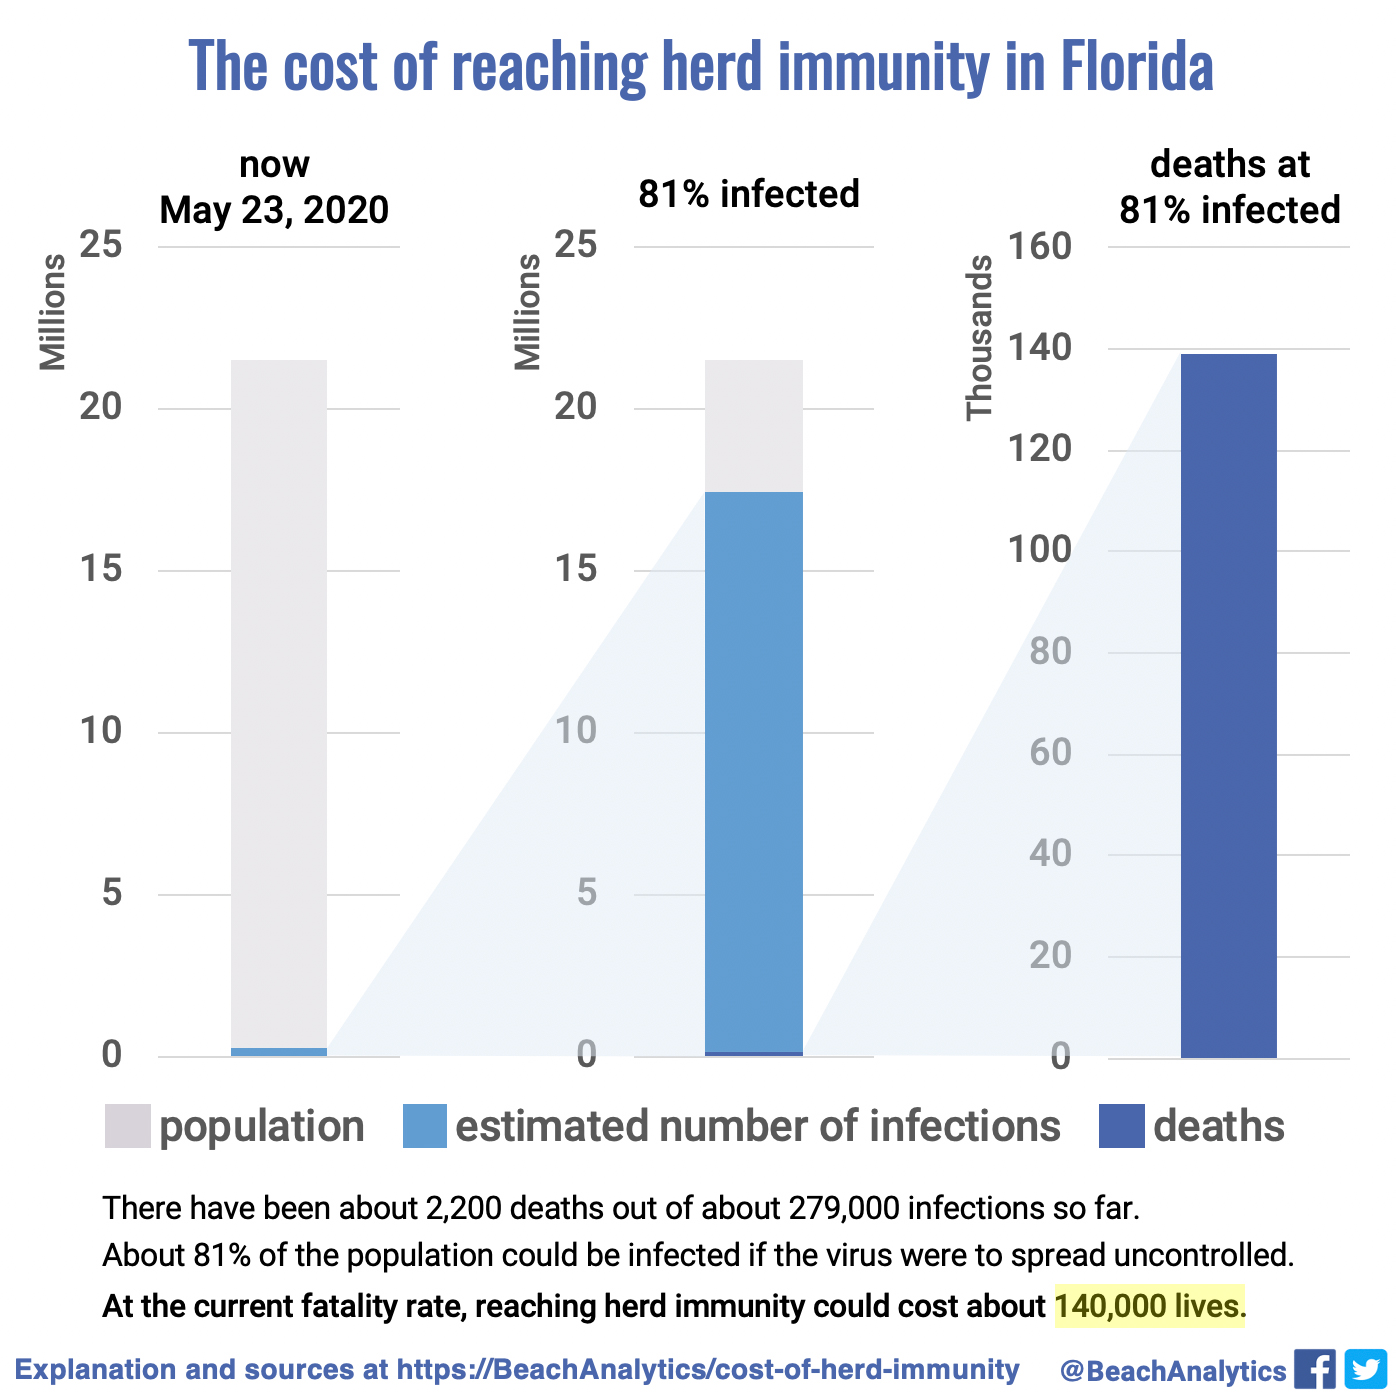
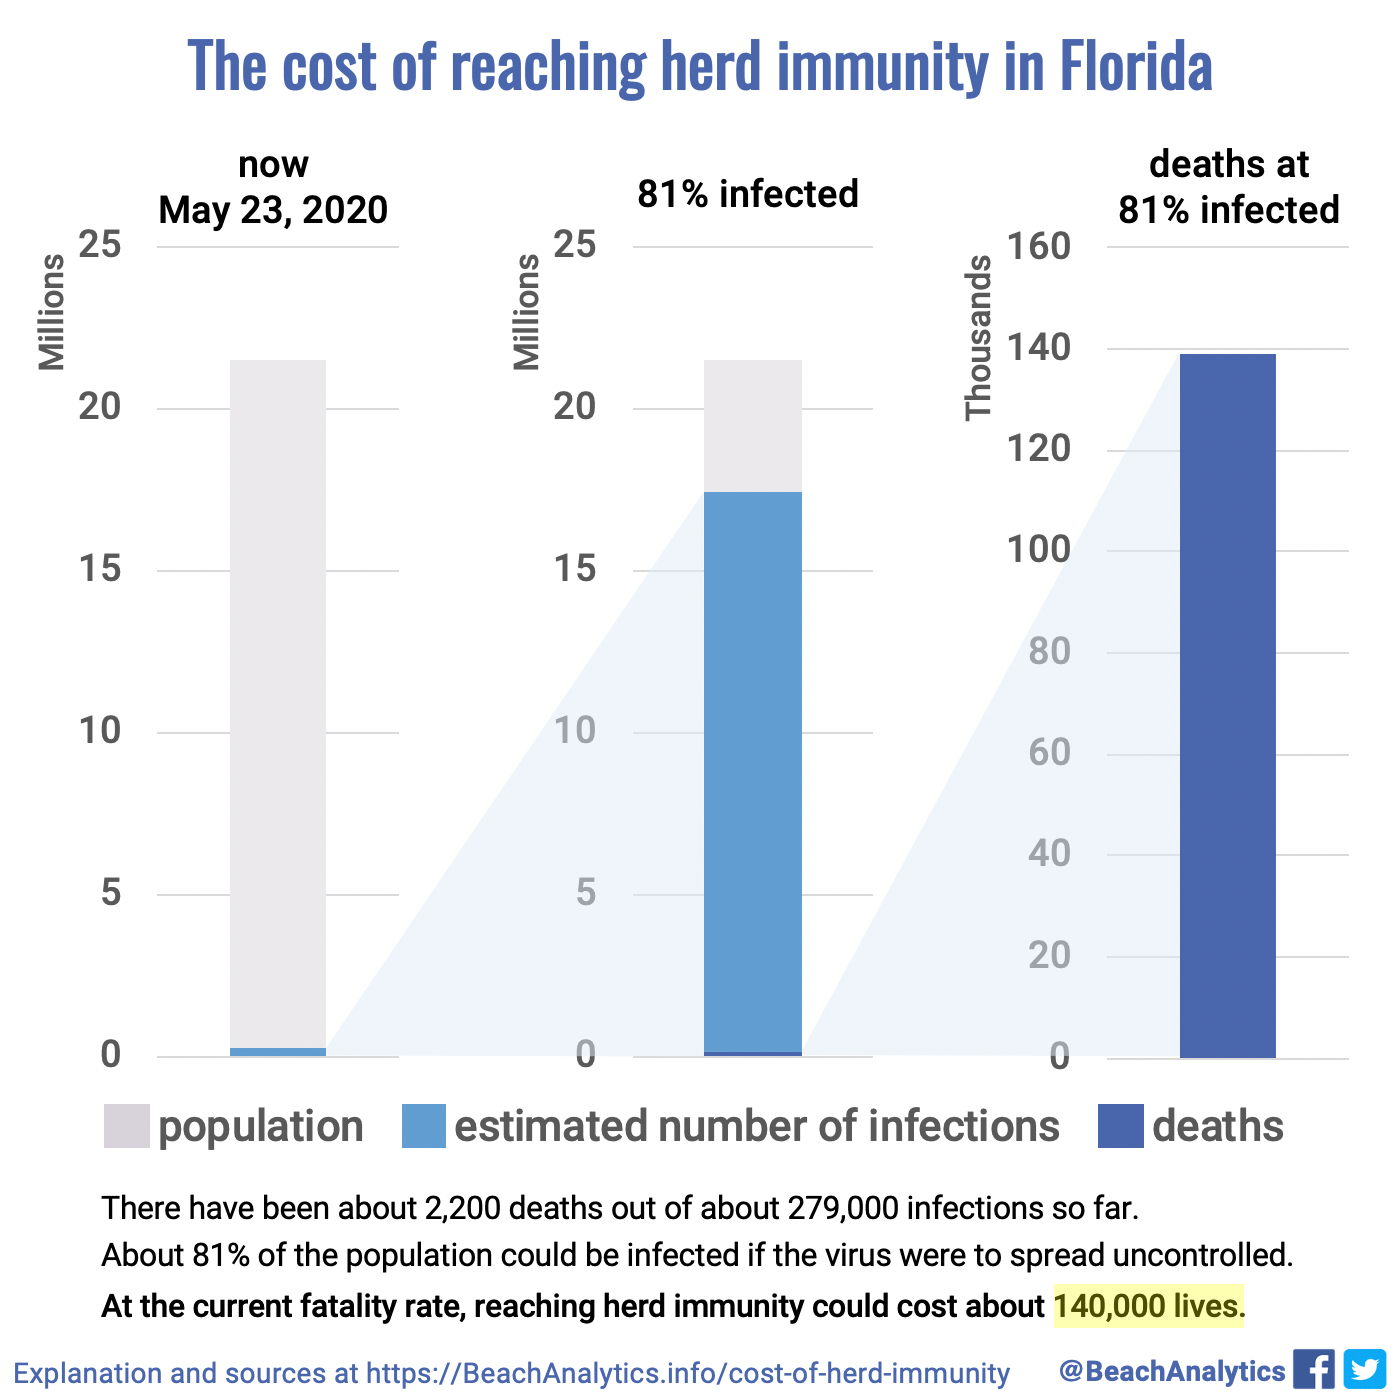
Fixed URL in the cost-of-herd-immunity charts.
Many thanks to Calleigh Alice for the QA on that.

diff --git a/docs/2020/05/23/estimating-the-cost-of-reaching-herd-immunity.html b/docs/2020/05/23/estimating-the-cost-of-reaching-herd-immunity.html
@@ -373,9 +373,9 @@ infected if we were to do that.<a class="citation" href="#imperial-collect:impac
 <figure class="figure">
   <a href="/charts/the-cost-of-herd-immunity/united-states/2020-05-23.jpg">
   <picture>
-    <source sizes="(max-width: 768px) calc(25vw - 1.5rem*2), (max-width: 992px) calc(25vw - 1.5rem*2), (max-width: 1200px) calc(25vw - 1.5rem*2), calc(100vw - 1.5rem*2)" srcset="/generated/charts/the-cost-of-herd-immunity/united-states/2020-05-23-576-29c31a.webp 576w, /generated/charts/the-cost-of-herd-immunity/united-states/2020-05-23-768-29c31a.webp 768w, /generated/charts/the-cost-of-herd-immunity/united-states/2020-05-23-992-29c31a.webp 992w, /generated/charts/the-cost-of-herd-immunity/united-states/2020-05-23-1152-29c31a.webp 1152w, /generated/charts/the-cost-of-herd-immunity/united-states/2020-05-23-1200-29c31a.webp 1200w, /generated/charts/the-cost-of-herd-immunity/united-states/2020-05-23-1396-29c31a.webp 1396w" type="image/webp" />
-    <source sizes="(max-width: 768px) calc(25vw - 1.5rem*2), (max-width: 992px) calc(25vw - 1.5rem*2), (max-width: 1200px) calc(25vw - 1.5rem*2), calc(100vw - 1.5rem*2)" srcset="/generated/charts/the-cost-of-herd-immunity/united-states/2020-05-23-576-29c31a.jpg 576w, /generated/charts/the-cost-of-herd-immunity/united-states/2020-05-23-768-29c31a.jpg 768w, /generated/charts/the-cost-of-herd-immunity/united-states/2020-05-23-992-29c31a.jpg 992w, /generated/charts/the-cost-of-herd-immunity/united-states/2020-05-23-1152-29c31a.jpg 1152w, /generated/charts/the-cost-of-herd-immunity/united-states/2020-05-23-1200-29c31a.jpg 1200w, /generated/charts/the-cost-of-herd-immunity/united-states/2020-05-23-1396-29c31a.jpg 1396w" type="image/jpeg" />
-    <img class="img-fluid" src="/generated/charts/the-cost-of-herd-immunity/united-states/2020-05-23-800-29c31a.jpg" />
+    <source sizes="(max-width: 768px) calc(25vw - 1.5rem*2), (max-width: 992px) calc(25vw - 1.5rem*2), (max-width: 1200px) calc(25vw - 1.5rem*2), calc(100vw - 1.5rem*2)" srcset="/generated/charts/the-cost-of-herd-immunity/united-states/2020-05-23-576-f8f81d.webp 576w, /generated/charts/the-cost-of-herd-immunity/united-states/2020-05-23-768-f8f81d.webp 768w, /generated/charts/the-cost-of-herd-immunity/united-states/2020-05-23-992-f8f81d.webp 992w, /generated/charts/the-cost-of-herd-immunity/united-states/2020-05-23-1152-f8f81d.webp 1152w, /generated/charts/the-cost-of-herd-immunity/united-states/2020-05-23-1200-f8f81d.webp 1200w, /generated/charts/the-cost-of-herd-immunity/united-states/2020-05-23-1396-f8f81d.webp 1396w" type="image/webp" />
+    <source sizes="(max-width: 768px) calc(25vw - 1.5rem*2), (max-width: 992px) calc(25vw - 1.5rem*2), (max-width: 1200px) calc(25vw - 1.5rem*2), calc(100vw - 1.5rem*2)" srcset="/generated/charts/the-cost-of-herd-immunity/united-states/2020-05-23-576-f8f81d.jpg 576w, /generated/charts/the-cost-of-herd-immunity/united-states/2020-05-23-768-f8f81d.jpg 768w, /generated/charts/the-cost-of-herd-immunity/united-states/2020-05-23-992-f8f81d.jpg 992w, /generated/charts/the-cost-of-herd-immunity/united-states/2020-05-23-1152-f8f81d.jpg 1152w, /generated/charts/the-cost-of-herd-immunity/united-states/2020-05-23-1200-f8f81d.jpg 1200w, /generated/charts/the-cost-of-herd-immunity/united-states/2020-05-23-1396-f8f81d.jpg 1396w" type="image/jpeg" />
+    <img class="img-fluid" src="/generated/charts/the-cost-of-herd-immunity/united-states/2020-05-23-800-f8f81d.jpg" />
   </picture>
 </a>
 
@@ -390,9 +390,9 @@ US states.<a class="citation" href="#imperial-college:report-23-us-states">[8]</
 <figure class="figure">
   <a href="/charts/the-cost-of-herd-immunity/florida/2020-05-23.jpg">
   <picture>
-    <source sizes="(max-width: 768px) calc(25vw - 1.5rem*2), (max-width: 992px) calc(25vw - 1.5rem*2), (max-width: 1200px) calc(25vw - 1.5rem*2), calc(100vw - 1.5rem*2)" srcset="/generated/charts/the-cost-of-herd-immunity/florida/2020-05-23-576-8aad2a.webp 576w, /generated/charts/the-cost-of-herd-immunity/florida/2020-05-23-768-8aad2a.webp 768w, /generated/charts/the-cost-of-herd-immunity/florida/2020-05-23-992-8aad2a.webp 992w, /generated/charts/the-cost-of-herd-immunity/florida/2020-05-23-1152-8aad2a.webp 1152w, /generated/charts/the-cost-of-herd-immunity/florida/2020-05-23-1200-8aad2a.webp 1200w, /generated/charts/the-cost-of-herd-immunity/florida/2020-05-23-1396-8aad2a.webp 1396w" type="image/webp" />
-    <source sizes="(max-width: 768px) calc(25vw - 1.5rem*2), (max-width: 992px) calc(25vw - 1.5rem*2), (max-width: 1200px) calc(25vw - 1.5rem*2), calc(100vw - 1.5rem*2)" srcset="/generated/charts/the-cost-of-herd-immunity/florida/2020-05-23-576-8aad2a.jpg 576w, /generated/charts/the-cost-of-herd-immunity/florida/2020-05-23-768-8aad2a.jpg 768w, /generated/charts/the-cost-of-herd-immunity/florida/2020-05-23-992-8aad2a.jpg 992w, /generated/charts/the-cost-of-herd-immunity/florida/2020-05-23-1152-8aad2a.jpg 1152w, /generated/charts/the-cost-of-herd-immunity/florida/2020-05-23-1200-8aad2a.jpg 1200w, /generated/charts/the-cost-of-herd-immunity/florida/2020-05-23-1396-8aad2a.jpg 1396w" type="image/jpeg" />
-    <img class="img-fluid" src="/generated/charts/the-cost-of-herd-immunity/florida/2020-05-23-800-8aad2a.jpg" />
+    <source sizes="(max-width: 768px) calc(25vw - 1.5rem*2), (max-width: 992px) calc(25vw - 1.5rem*2), (max-width: 1200px) calc(25vw - 1.5rem*2), calc(100vw - 1.5rem*2)" srcset="/generated/charts/the-cost-of-herd-immunity/florida/2020-05-23-576-286670.webp 576w, /generated/charts/the-cost-of-herd-immunity/florida/2020-05-23-768-286670.webp 768w, /generated/charts/the-cost-of-herd-immunity/florida/2020-05-23-992-286670.webp 992w, /generated/charts/the-cost-of-herd-immunity/florida/2020-05-23-1152-286670.webp 1152w, /generated/charts/the-cost-of-herd-immunity/florida/2020-05-23-1200-286670.webp 1200w, /generated/charts/the-cost-of-herd-immunity/florida/2020-05-23-1396-286670.webp 1396w" type="image/webp" />
+    <source sizes="(max-width: 768px) calc(25vw - 1.5rem*2), (max-width: 992px) calc(25vw - 1.5rem*2), (max-width: 1200px) calc(25vw - 1.5rem*2), calc(100vw - 1.5rem*2)" srcset="/generated/charts/the-cost-of-herd-immunity/florida/2020-05-23-576-286670.jpg 576w, /generated/charts/the-cost-of-herd-immunity/florida/2020-05-23-768-286670.jpg 768w, /generated/charts/the-cost-of-herd-immunity/florida/2020-05-23-992-286670.jpg 992w, /generated/charts/the-cost-of-herd-immunity/florida/2020-05-23-1152-286670.jpg 1152w, /generated/charts/the-cost-of-herd-immunity/florida/2020-05-23-1200-286670.jpg 1200w, /generated/charts/the-cost-of-herd-immunity/florida/2020-05-23-1396-286670.jpg 1396w" type="image/jpeg" />
+    <img class="img-fluid" src="/generated/charts/the-cost-of-herd-immunity/florida/2020-05-23-800-286670.jpg" />
   </picture>
 </a>
 
@@ -409,9 +409,9 @@ I have been using their estimate of how many infections are reported as cases to
 <figure class="figure">
   <a href="/charts/the-cost-of-herd-immunity/miami-dade/2020-05-23.jpg">
   <picture>
-    <source sizes="(max-width: 768px) calc(25vw - 1.5rem*2), (max-width: 992px) calc(25vw - 1.5rem*2), (max-width: 1200px) calc(25vw - 1.5rem*2), calc(100vw - 1.5rem*2)" srcset="/generated/charts/the-cost-of-herd-immunity/miami-dade/2020-05-23-576-cb08bc.webp 576w, /generated/charts/the-cost-of-herd-immunity/miami-dade/2020-05-23-768-cb08bc.webp 768w, /generated/charts/the-cost-of-herd-immunity/miami-dade/2020-05-23-992-cb08bc.webp 992w, /generated/charts/the-cost-of-herd-immunity/miami-dade/2020-05-23-1152-cb08bc.webp 1152w, /generated/charts/the-cost-of-herd-immunity/miami-dade/2020-05-23-1200-cb08bc.webp 1200w, /generated/charts/the-cost-of-herd-immunity/miami-dade/2020-05-23-1396-cb08bc.webp 1396w" type="image/webp" />
-    <source sizes="(max-width: 768px) calc(25vw - 1.5rem*2), (max-width: 992px) calc(25vw - 1.5rem*2), (max-width: 1200px) calc(25vw - 1.5rem*2), calc(100vw - 1.5rem*2)" srcset="/generated/charts/the-cost-of-herd-immunity/miami-dade/2020-05-23-576-cb08bc.jpg 576w, /generated/charts/the-cost-of-herd-immunity/miami-dade/2020-05-23-768-cb08bc.jpg 768w, /generated/charts/the-cost-of-herd-immunity/miami-dade/2020-05-23-992-cb08bc.jpg 992w, /generated/charts/the-cost-of-herd-immunity/miami-dade/2020-05-23-1152-cb08bc.jpg 1152w, /generated/charts/the-cost-of-herd-immunity/miami-dade/2020-05-23-1200-cb08bc.jpg 1200w, /generated/charts/the-cost-of-herd-immunity/miami-dade/2020-05-23-1396-cb08bc.jpg 1396w" type="image/jpeg" />
-    <img class="img-fluid" src="/generated/charts/the-cost-of-herd-immunity/miami-dade/2020-05-23-800-cb08bc.jpg" />
+    <source sizes="(max-width: 768px) calc(25vw - 1.5rem*2), (max-width: 992px) calc(25vw - 1.5rem*2), (max-width: 1200px) calc(25vw - 1.5rem*2), calc(100vw - 1.5rem*2)" srcset="/generated/charts/the-cost-of-herd-immunity/miami-dade/2020-05-23-576-714ecd.webp 576w, /generated/charts/the-cost-of-herd-immunity/miami-dade/2020-05-23-768-714ecd.webp 768w, /generated/charts/the-cost-of-herd-immunity/miami-dade/2020-05-23-992-714ecd.webp 992w, /generated/charts/the-cost-of-herd-immunity/miami-dade/2020-05-23-1152-714ecd.webp 1152w, /generated/charts/the-cost-of-herd-immunity/miami-dade/2020-05-23-1200-714ecd.webp 1200w, /generated/charts/the-cost-of-herd-immunity/miami-dade/2020-05-23-1396-714ecd.webp 1396w" type="image/webp" />
+    <source sizes="(max-width: 768px) calc(25vw - 1.5rem*2), (max-width: 992px) calc(25vw - 1.5rem*2), (max-width: 1200px) calc(25vw - 1.5rem*2), calc(100vw - 1.5rem*2)" srcset="/generated/charts/the-cost-of-herd-immunity/miami-dade/2020-05-23-576-714ecd.jpg 576w, /generated/charts/the-cost-of-herd-immunity/miami-dade/2020-05-23-768-714ecd.jpg 768w, /generated/charts/the-cost-of-herd-immunity/miami-dade/2020-05-23-992-714ecd.jpg 992w, /generated/charts/the-cost-of-herd-immunity/miami-dade/2020-05-23-1152-714ecd.jpg 1152w, /generated/charts/the-cost-of-herd-immunity/miami-dade/2020-05-23-1200-714ecd.jpg 1200w, /generated/charts/the-cost-of-herd-immunity/miami-dade/2020-05-23-1396-714ecd.jpg 1396w" type="image/jpeg" />
+    <img class="img-fluid" src="/generated/charts/the-cost-of-herd-immunity/miami-dade/2020-05-23-800-714ecd.jpg" />
   </picture>
 </a>
 
@@ -423,9 +423,9 @@ I have been using their estimate of how many infections are reported as cases to
 <figure class="figure">
   <a href="/charts/the-cost-of-herd-immunity/broward/2020-05-23.jpg">
   <picture>
-    <source sizes="(max-width: 768px) calc(25vw - 1.5rem*2), (max-width: 992px) calc(25vw - 1.5rem*2), (max-width: 1200px) calc(25vw - 1.5rem*2), calc(100vw - 1.5rem*2)" srcset="/generated/charts/the-cost-of-herd-immunity/broward/2020-05-23-576-2d352a.webp 576w, /generated/charts/the-cost-of-herd-immunity/broward/2020-05-23-768-2d352a.webp 768w, /generated/charts/the-cost-of-herd-immunity/broward/2020-05-23-992-2d352a.webp 992w, /generated/charts/the-cost-of-herd-immunity/broward/2020-05-23-1152-2d352a.webp 1152w, /generated/charts/the-cost-of-herd-immunity/broward/2020-05-23-1200-2d352a.webp 1200w, /generated/charts/the-cost-of-herd-immunity/broward/2020-05-23-1396-2d352a.webp 1396w" type="image/webp" />
-    <source sizes="(max-width: 768px) calc(25vw - 1.5rem*2), (max-width: 992px) calc(25vw - 1.5rem*2), (max-width: 1200px) calc(25vw - 1.5rem*2), calc(100vw - 1.5rem*2)" srcset="/generated/charts/the-cost-of-herd-immunity/broward/2020-05-23-576-2d352a.jpg 576w, /generated/charts/the-cost-of-herd-immunity/broward/2020-05-23-768-2d352a.jpg 768w, /generated/charts/the-cost-of-herd-immunity/broward/2020-05-23-992-2d352a.jpg 992w, /generated/charts/the-cost-of-herd-immunity/broward/2020-05-23-1152-2d352a.jpg 1152w, /generated/charts/the-cost-of-herd-immunity/broward/2020-05-23-1200-2d352a.jpg 1200w, /generated/charts/the-cost-of-herd-immunity/broward/2020-05-23-1396-2d352a.jpg 1396w" type="image/jpeg" />
-    <img class="img-fluid" src="/generated/charts/the-cost-of-herd-immunity/broward/2020-05-23-800-2d352a.jpg" />
+    <source sizes="(max-width: 768px) calc(25vw - 1.5rem*2), (max-width: 992px) calc(25vw - 1.5rem*2), (max-width: 1200px) calc(25vw - 1.5rem*2), calc(100vw - 1.5rem*2)" srcset="/generated/charts/the-cost-of-herd-immunity/broward/2020-05-23-576-c79cfc.webp 576w, /generated/charts/the-cost-of-herd-immunity/broward/2020-05-23-768-c79cfc.webp 768w, /generated/charts/the-cost-of-herd-immunity/broward/2020-05-23-992-c79cfc.webp 992w, /generated/charts/the-cost-of-herd-immunity/broward/2020-05-23-1152-c79cfc.webp 1152w, /generated/charts/the-cost-of-herd-immunity/broward/2020-05-23-1200-c79cfc.webp 1200w, /generated/charts/the-cost-of-herd-immunity/broward/2020-05-23-1396-c79cfc.webp 1396w" type="image/webp" />
+    <source sizes="(max-width: 768px) calc(25vw - 1.5rem*2), (max-width: 992px) calc(25vw - 1.5rem*2), (max-width: 1200px) calc(25vw - 1.5rem*2), calc(100vw - 1.5rem*2)" srcset="/generated/charts/the-cost-of-herd-immunity/broward/2020-05-23-576-c79cfc.jpg 576w, /generated/charts/the-cost-of-herd-immunity/broward/2020-05-23-768-c79cfc.jpg 768w, /generated/charts/the-cost-of-herd-immunity/broward/2020-05-23-992-c79cfc.jpg 992w, /generated/charts/the-cost-of-herd-immunity/broward/2020-05-23-1152-c79cfc.jpg 1152w, /generated/charts/the-cost-of-herd-immunity/broward/2020-05-23-1200-c79cfc.jpg 1200w, /generated/charts/the-cost-of-herd-immunity/broward/2020-05-23-1396-c79cfc.jpg 1396w" type="image/jpeg" />
+    <img class="img-fluid" src="/generated/charts/the-cost-of-herd-immunity/broward/2020-05-23-800-c79cfc.jpg" />
   </picture>
 </a>
 
@@ -435,11 +435,7 @@ I have been using their estimate of how many infections are reported as cases to
 
 <h2 id="okay-so-what-does-this-mean">Okay, so what does this mean?</h2>
 
-<p>Intentionally <mark>aiming at herd immunity is not the answer</mark>.  If we allow the
-virus to spread uncontrolled, or if we go so far as to encourage the spread,
-then the outbreak will rocket past the herd immunity threshold, and people will
-continue to be infected.  And we will have more deaths for months after we reach
-that point.</p>
+<p>Intentionally <mark>aiming at herd immunity is not the answer</mark>.  If we allow the virus to spread uncontrolled, or if we go so far as to encourage the spread, then the outbreak will rocket past the herd immunity threshold, and people will continue to be infected.  And we will have more deaths for months after we reach that point.</p>
 
 <p><mark>We <i><b>must</b></i> reduce the final death count.</mark>  The only way to do that is by <mark>lowering the fatality rate</mark> through new therapies, or by <mark>stopping the spread with a vaccine</mark>.  We must buy time for those things by limiting the spread now.  The biggest factor that affects the spread is under our control: social distancing.  Weather, overall health, and other things are all factors, but social distancing dwarfs those factors.<a class="citation" href="#policylab:forecasting-impacts-of-weather">[11,12]</a>  We’re at a point right now where we risk a second outbreak that we might not be able to control, and the best way that we have to stop it is to maintain social distancing.</p>
 
@@ -714,7 +710,7 @@ and Tropical Medicine<a class="citation" href="#cmmid">[10]</a>, because they up
 
       <div class="col text-right">
         <div class="small timestamps">site&nbsp;updated</div>
-        <code class="smaller">May 24, 2020  1:34 AM</code>
+        <code class="smaller">May 24, 2020  1:31 PM</code>
       </div>
 
     </div>

diff --git a/site/_posts/2020-05-23-estimating-the-cost-of-reaching-herd-immunity.md b/site/_posts/2020-05-23-estimating-the-cost-of-reaching-herd-immunity.md
@@ -98,11 +98,7 @@ I have been using their estimate of how many infections are reported as cases to
 
 ## Okay, so what does this mean?
 
-Intentionally <mark>aiming at herd immunity is not the answer</mark>.  If we allow the
-virus to spread uncontrolled, or if we go so far as to encourage the spread,
-then the outbreak will rocket past the herd immunity threshold, and people will
-continue to be infected.  And we will have more deaths for months after we reach
-that point.
+Intentionally <mark>aiming at herd immunity is not the answer</mark>.  If we allow the virus to spread uncontrolled, or if we go so far as to encourage the spread, then the outbreak will rocket past the herd immunity threshold, and people will continue to be infected.  And we will have more deaths for months after we reach that point.
 
 <mark>We <i><b>must</b></i> reduce the final death count.</mark>  The only way to do that is by <mark>lowering the fatality rate</mark> through new therapies, or by <mark>stopping the spread with a vaccine</mark>.  We must buy time for those things by limiting the spread now.  The biggest factor that affects the spread is under our control: social distancing.  Weather, overall health, and other things are all factors, but social distancing dwarfs those factors.{% cite policylab:forecasting-impacts-of-weather policylab:studying-effect-of-weather %}  We're at a point right now where we risk a second outbreak that we might not be able to control, and the best way that we have to stop it is to maintain social distancing.
 
